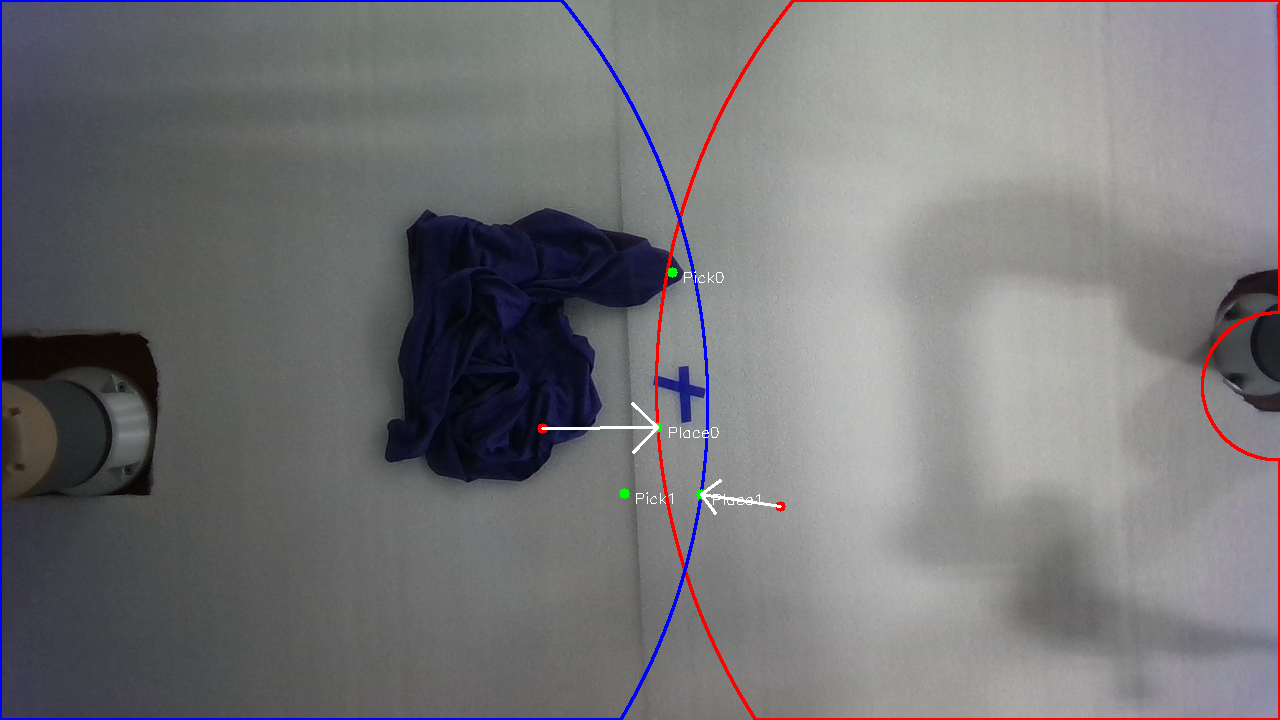
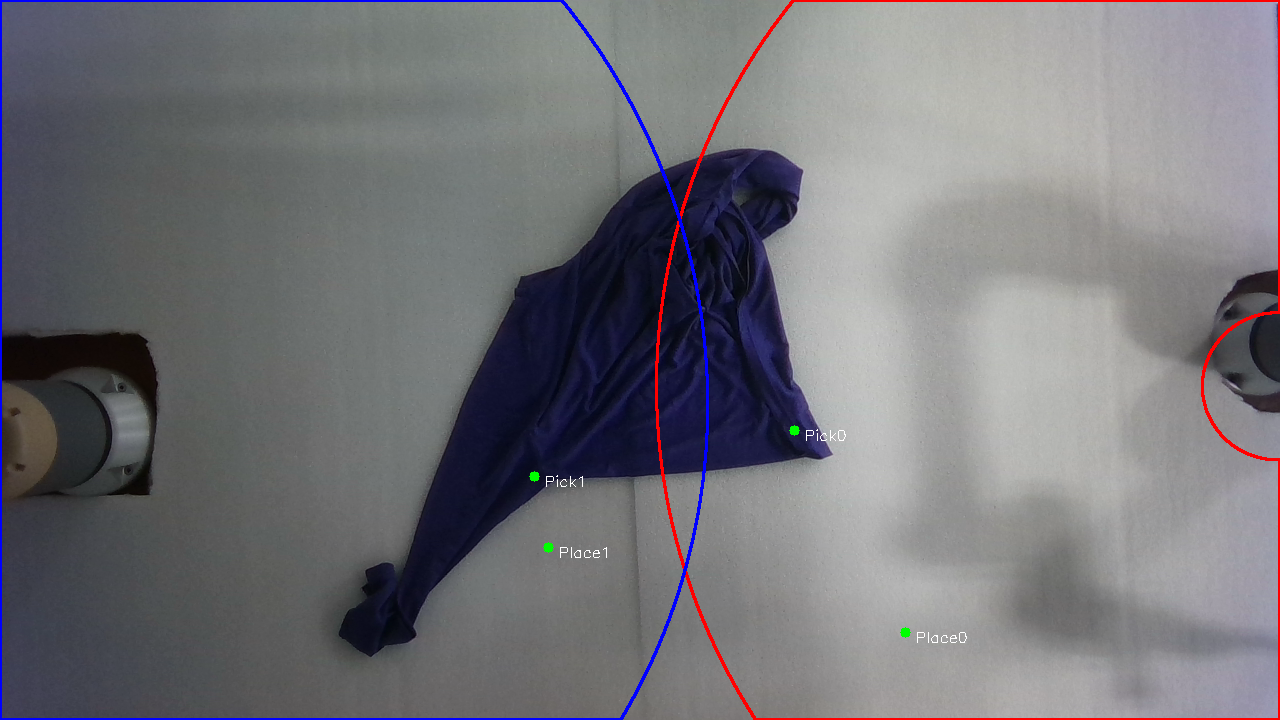
update pick-and-fling

Changed region(s): [[0.25, 0.1833, 0.6562, 0.9167], [0.6875, 0.8556, 0.7188, 0.8861], [0.4375, 0.7639, 0.4688, 0.7944]]

diff --git a/real_robot/primitives/pick_and_fling.py b/real_robot/primitives/pick_and_fling.py
@@ -199,14 +199,14 @@ class PickAndFlingSkill:
         target_pose_0 = np.concatenate([target_p0_local, vertical_rotvec])
 
         # UR16e target needs to be converted back to UR16e Base Frame
-        target_p1_ur16e = transform_point(self.scene.T_ur5e_ur16e, target_p1_local)
+        target_p1_ur16e = transform_point(np.linalg.inv(self.scene.T_ur5e_ur16e), target_p1_local)
         target_pose_1 = np.concatenate([target_p1_ur16e, vertical_rotvec])
 
         # 5. Execute Centering Move
         self.scene.both_movel(target_pose_0, target_pose_1, speed=0.2, acc=0.1, blocking=True)
 
 
-        self.dual_arm_stretch_and_fling(target_p0_local, transform_point(np.linalg.inv(self.scene.T_ur5e_ur16e), target_p1_ur16e))
+        self.dual_arm_stretch_and_fling(target_p0_local, transform_point(self.scene.T_ur5e_ur16e, target_p1_ur16e))
 
         self.scene.both_home()
 
@@ -260,7 +260,7 @@ class PickAndFlingSkill:
         # print('ur5e_path_world', ur5e_path_world)
         # print('ur16e_path_world', ur16e_path_world)
 
-        self.scene.both_fling(ur5e_path_world, transform_pose(self.scene.T_ur5e_ur16e, ur16e_path_world), 
+        self.scene.both_fling(ur5e_path_world, transform_pose(np.linalg.inv(self.scene.T_ur5e_ur16e), ur16e_path_world), 
             fling_speed, fling_acc)
         
         self.scene.both_open_gripper()
@@ -274,7 +274,7 @@ class PickAndFlingSkill:
         """
         Assuming specific gripper and tcp orientation.
         """
-        ur16e_pose_base = transform_pose(self.scene.T_ur5e_ur16e, ur16e_pose_world)
+        ur16e_pose_base = transform_pose(np.linalg.inv(self.scene.T_ur5e_ur16e), ur16e_pose_world)
 
         r = self.scene.both_movel(ur5e_pose_world, \
             ur16e_pose_base, \
